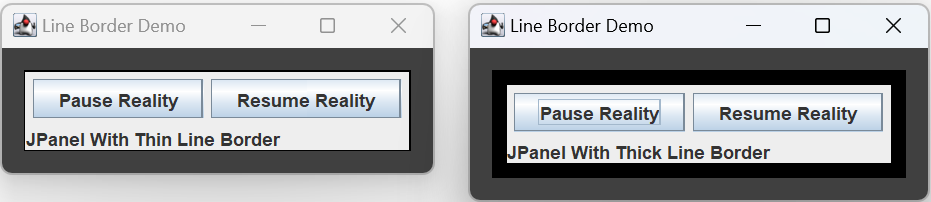
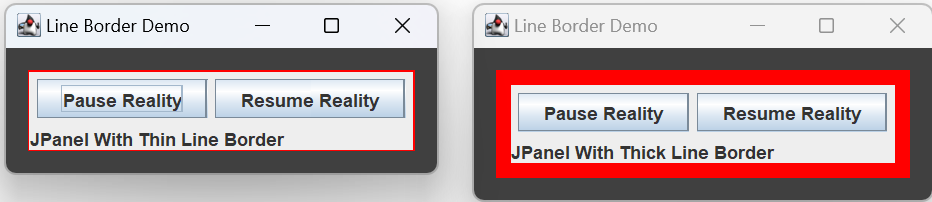
Work on Cartesian Plane part 15

diff --git a/Cartesian Plane Part 15/src/main/java/com/acmemail/judah/cartesian_plane/sandbox/BorderDemo1.java b/Cartesian Plane Part 15/src/main/java/com/acmemail/judah/cartesian_plane/sandbox/BorderDemo1.java
@@ -12,8 +12,10 @@ import javax.swing.JFrame;
 import javax.swing.JLabel;
 import javax.swing.JPanel;
 import javax.swing.SwingUtilities;
+import javax.swing.border.BevelBorder;
 import javax.swing.border.Border;
 import javax.swing.border.EtchedBorder;
+import javax.swing.border.TitledBorder;
 
 public class BorderDemo1
 {
@@ -21,11 +23,15 @@ public class BorderDemo1
     private static final int    locY    = 300;
     
     private List<JFrame>    allFrames   = new ArrayList<>();
+    private JPanel          demoPanel;
     
     public static void main(String[] args)
     {
         SwingUtilities.invokeLater( () -> new BorderDemo1().makeGUI() );
-
+        BorderFactory.createBevelBorder( BevelBorder.RAISED );
+        BorderFactory.createRaisedBevelBorder();
+        BorderFactory.createBevelBorder( BevelBorder.LOWERED );
+        BorderFactory.createLoweredBevelBorder();
     }
     
     private void makeGUI()
@@ -33,91 +39,52 @@ public class BorderDemo1
         JFrame  frame       = new JFrame( "Border Demo" );
         frame.setDefaultCloseOperation( JFrame.EXIT_ON_CLOSE );
         JPanel  contentPane = new JPanel( new BorderLayout() );
-        JPanel  centerPanel = new JPanel( new GridLayout( 2, 3, 5, 5) );
+        demoPanel   = new JPanel( new GridLayout( 3, 3, 5, 5 ) );
         
-        JButton empty       = new JButton( "Show Empty Border" );
-        empty.addActionListener( e -> {
-            closeAll();
-            emptyBorderDemo();
-        });
-        centerPanel.add( empty );
+        getDemoButton( "Show Empty Border", () -> emptyBorderDemo() );
+        getDemoButton( "Show Bevel Border (1)", () -> bevelBorderDemo1() );
+        getDemoButton( "Show Bevel Border (2)", () -> bevelBorderDemo2() );
+        getDemoButton( "Show Etched Border", () -> etchedBorderDemo() );
+        getDemoButton( "Show Titled Border (1)", () -> titledBorderDemo1() );
+        getDemoButton( "Show Titled Border (2)", () -> titledBorderDemo2() );
+        getDemoButton( "Show Line Border", () -> lineBorderDemo() );
+        getDemoButton( "Show Compound Border", () -> compoundBorderDemo() );
         
-        JButton bevel       = new JButton( "Show Bevel Border" );
-        centerPanel.add( bevel );
-        bevel.addActionListener( e -> {
-            closeAll();
-            bevelBorderDemo();
-        });
+        JButton reserved2   = new JButton();
+        reserved2.setEnabled( false );
+        demoPanel.add( reserved2 );
         
-        JButton etched      = new JButton( "Show Etched Border" );
-        centerPanel.add( etched );
-        etched.addActionListener( e -> {
-            closeAll();
-            etchedBorderDemo();
-        });
-        
-        JButton line        = new JButton( "Show Line Border" );
-        centerPanel.add( line );
-        line.addActionListener( e -> {
-            closeAll();
-            lineBorderDemo();
-        });
-        
-        JButton titled      = new JButton( "Show Titled Border" );
-        titled.addActionListener( e -> {
-            closeAll();
-            titledBorderDemo();
-        });
-        centerPanel.add( titled );
-        
-        JButton compound    = new JButton( "Show Compound Border" );
-        centerPanel.add( compound );
-        compound.addActionListener( e -> {
-            closeAll();
-            compoundBorderDemo();
-        });
-        centerPanel.add( compound );
-        
-        contentPane.add( centerPanel, BorderLayout.CENTER );
-        JButton exit    = new JButton( "Exit" );
-        exit.addActionListener( e -> System.exit( 0 ) );
+        contentPane.add( demoPanel, BorderLayout.CENTER );
         contentPane.add( getButtonPanel(), BorderLayout.SOUTH );
         frame.setContentPane( contentPane );
         frame.pack();
         frame.setLocation( locX - 150, locY - 150 );
         frame.setVisible( true );
     }
+    
+    private void 
+    getDemoButton( String text, Runnable callBack )
+    {
+        JButton button  = new JButton( text );
+        button.addActionListener( e -> {
+            closeAll();
+            callBack.run();
+        });
+        demoPanel.add( button );
+    }
 
     private void emptyBorderDemo()
     {
-        JFrame  frame1  = new JFrame( "Empty Border Demo" );
-        JFrame  frame2  = new JFrame( "Empty Border Demo" );
-        allFrames.add( frame1 );
-        allFrames.add( frame2 );
         JPanel  panel1  = getMainPanel( "JPanel Without Border" );
         JPanel  panel2  = getMainPanel( "JPanel With Empty Border" );
         Border  border  =
             BorderFactory.createEmptyBorder( 20, 20, 20, 20 );
         panel2.setBorder( border );
-        
-        frame1.setContentPane( getContentPane( panel1 ) );
-        frame2.setContentPane( getContentPane( panel2 ) );
-        frame1.pack();
-        frame2.pack();
-        frame1.setLocation( locX, locY );
-        int locX2   = locX + frame1.getWidth() + 10;
-        frame2.setLocation( locX2, locY );
-        
-        frame1.setVisible( true );
-        frame2.setVisible( true );
+        finishAndShow( "Empty Border Demo", panel1, panel2 );
     }
 
-    private void bevelBorderDemo()
+    private void bevelBorderDemo1()
     {
-        JFrame  frame1  = new JFrame( "Bevel Border Demo" );
-        JFrame  frame2  = new JFrame( "Bevel Border Demo" );
-        allFrames.add( frame1 );
-        allFrames.add( frame2 );
         JPanel  panel1  = getMainPanel( "JPanel With Raised Bevel Border" );
         JPanel  panel2  = getMainPanel( "JPanel With Lowered Bevel Border" );
         Border  border1 =
@@ -126,25 +93,32 @@ public class BorderDemo1
             BorderFactory.createLoweredBevelBorder();
         panel1.setBorder( border1 );
         panel2.setBorder( border2 );
-        
-        frame1.setContentPane( getContentPane( panel1 ) );
-        frame2.setContentPane( getContentPane( panel2 ) );
-        frame1.pack();
-        frame2.pack();
-        frame1.setLocation( locX, locY );
-        int locX2   = locX + frame1.getWidth() + 10;
-        frame2.setLocation( locX2, locY );
-        
-        frame1.setVisible( true );
-        frame2.setVisible( true );
+        finishAndShow( "Bevel Border Demo (1)", panel1, panel2 );
+    }
+
+    private void bevelBorderDemo2()
+    {
+        JPanel  panel1  = getMainPanel( "JPanel With Raised Bevel Border" );
+        JPanel  panel2  = getMainPanel( "JPanel With Lowered Bevel Border" );
+        Border  border1 =
+            BorderFactory.createBevelBorder(
+                BevelBorder.RAISED,
+                Color.RED,
+                Color.GREEN
+        );
+        Border  border2 =
+            BorderFactory.createBevelBorder(
+                BevelBorder.RAISED,
+                Color.RED,
+                Color.GREEN
+        );
+        panel1.setBorder( border1 );
+        panel2.setBorder( border2 );
+        finishAndShow( "Bevel Border Demo (2)", panel1, panel2 );
     }
 
     private void etchedBorderDemo()
     {
-        JFrame  frame1  = new JFrame( "Etched Border Demo" );
-        JFrame  frame2  = new JFrame( "Etched Border Demo" );
-        allFrames.add( frame1 );
-        allFrames.add( frame2 );
         JPanel  panel1  = getMainPanel( "JPanel With Raised Etched Border" );
         JPanel  panel2  = getMainPanel( "JPanel With Lowered Etched Border" );
         Border  border1 =
@@ -153,52 +127,24 @@ public class BorderDemo1
             BorderFactory.createEtchedBorder( EtchedBorder.LOWERED );
         panel1.setBorder( border1 );
         panel2.setBorder( border2 );
-        
-        frame1.setContentPane( getContentPane( panel1 ) );
-        frame2.setContentPane( getContentPane( panel2 ) );
-        frame1.pack();
-        frame2.pack();
-        frame1.setLocation( locX, locY );
-        int locX2   = locX + frame1.getWidth() + 10;
-        frame2.setLocation( locX2, locY );
-        
-        frame1.setVisible( true );
-        frame2.setVisible( true );
+        finishAndShow( "Etched Border Demo", panel1, panel2 );
     }
 
     private void lineBorderDemo()
     {
-        JFrame  frame1  = new JFrame( "Line Border Demo" );
-        JFrame  frame2  = new JFrame( "Line Border Demo" );
-        allFrames.add( frame1 );
-        allFrames.add( frame2 );
         JPanel  panel1  = getMainPanel( "JPanel With Thin Line Border" );
         JPanel  panel2  = getMainPanel( "JPanel With Thick Line Border" );
         Border  border1 =
-            BorderFactory.createLineBorder( Color.BLACK );
+            BorderFactory.createLineBorder( Color.RED );
         Border  border2 =
-            BorderFactory.createLineBorder( Color.BLACK, 10 );
+            BorderFactory.createLineBorder( Color.RED, 10 );
         panel1.setBorder( border1 );
         panel2.setBorder( border2 );
-        
-        frame1.setContentPane( getContentPane( panel1 ) );
-        frame2.setContentPane( getContentPane( panel2 ) );
-        frame1.pack();
-        frame2.pack();
-        frame1.setLocation( locX, locY );
-        int locX2   = locX + frame1.getWidth() + 10;
-        frame2.setLocation( locX2, locY );
-        
-        frame1.setVisible( true );
-        frame2.setVisible( true );
+        finishAndShow( "Line Border Demo", panel1, panel2 );
     }
 
-    private void titledBorderDemo()
+    private void titledBorderDemo1()
     {
-        JFrame  frame1  = new JFrame( "Titled Border Demo" );
-        JFrame  frame2  = new JFrame( "Titled Border Demo" );
-        allFrames.add( frame1 );
-        allFrames.add( frame2 );
         JPanel  panel1  = getMainPanel( "JPanel With Titled Border" );
         JPanel  panel2  = getMainPanel( "JPanel With Line/Titled Border" );
         Border  border1 =
@@ -208,36 +154,37 @@ public class BorderDemo1
             BorderFactory.createTitledBorder( line, "Your Title Goes Here" );
         panel1.setBorder( border1 );
         panel2.setBorder( border2 );
-        
-        // The main panel goes inside another JPanel with an empty
-        // border; this makes the border around the main panel clearer.
-        Border  empty           = BorderFactory.createEmptyBorder( 10, 10, 10, 10 );
-        JPanel  contentPane1    = new JPanel();
-        contentPane1.setBorder( empty );
-        contentPane1.add( panel1 );
-        
-        JPanel  contentPane2    = new JPanel();
-        contentPane2.setBorder( empty );
-        contentPane2.add( panel2 );
-        
-        frame1.setContentPane( getContentPane( panel1 ) );
-        frame2.setContentPane( getContentPane( panel2 ) );
-        frame1.pack();
-        frame2.pack();
-        frame1.setLocation( locX, locY );
-        int locX2   = locX + frame1.getWidth() + 10;
-        frame2.setLocation( locX2, locY );
-        
-        frame1.setVisible( true );
-        frame2.setVisible( true );
+        finishAndShow( "Titled Border Demo (1)", panel1, panel2 );
+    }
+
+    private void titledBorderDemo2()
+    {
+        JPanel  panel1  = getMainPanel( "JPanel With Bevel/Titled Border" );
+        JPanel  panel2  = getMainPanel( "JPanel With Etched/Titled Border" );
+        Border  bevel   = BorderFactory.createRaisedBevelBorder();
+        Border  border1 =
+            BorderFactory.createTitledBorder( 
+                bevel,
+                "Your Title Goes Here",
+                TitledBorder.DEFAULT_JUSTIFICATION,
+                TitledBorder.ABOVE_BOTTOM
+            );
+        Border  etched  =
+            BorderFactory.createEtchedBorder( EtchedBorder.RAISED );
+        Border  border2 =
+            BorderFactory.createTitledBorder( 
+                etched, 
+                "Your Title Goes Here",
+                TitledBorder.DEFAULT_JUSTIFICATION,
+                TitledBorder.BOTTOM
+            );
+        panel1.setBorder( border1 );
+        panel2.setBorder( border2 );
+        finishAndShow( "Titled Border Demo (2)", panel1, panel2 );
     }
 
     private void compoundBorderDemo()
     {
-        JFrame  frame1  = new JFrame( "Compound Border Demo" );
-        JFrame  frame2  = new JFrame( "Compound Border Demo" );
-        allFrames.add( frame1 );
-        allFrames.add( frame2 );
         JPanel  panel1  = 
             getMainPanel( "JPanel With Titled Border Inside Etched" );
         JPanel  panel2  = 
@@ -250,29 +197,8 @@ public class BorderDemo1
         Border  border2 =
             BorderFactory.createCompoundBorder( titled, etched );
         panel1.setBorder( border1 );
-        panel2.setBorder( border2 );
-        
-        // The main panel goes inside another JPanel with an empty
-        // border; this makes the border around the main panel clearer.
-        Border  empty           = BorderFactory.createEmptyBorder( 10, 10, 10, 10 );
-        JPanel  contentPane1    = new JPanel();
-        contentPane1.setBorder( empty );
-        contentPane1.add( panel1 );
-        
-        JPanel  contentPane2    = new JPanel();
-        contentPane2.setBorder( empty );
-        contentPane2.add( panel2 );
-        
-        frame1.setContentPane( getContentPane( panel1 ) );
-        frame2.setContentPane( getContentPane( panel2 ) );
-        frame1.pack();
-        frame2.pack();
-        frame1.setLocation( locX, locY );
-        int locX2   = locX + frame1.getWidth() + 10;
-        frame2.setLocation( locX2, locY );
-        
-        frame1.setVisible( true );
-        frame2.setVisible( true );
+        panel2.setBorder( border2 );        
+        finishAndShow( "Compound Border Demo", panel1, panel2 );
     }
     
     private JPanel getMainPanel( String caption )
@@ -305,16 +231,28 @@ public class BorderDemo1
         return panel;
     }
     
-    private JPanel getContentPane( JPanel mainPanel )
+    private void finishAndShow( String title, JPanel... panels )
     {
-        // The main panel goes inside another JPanel with an empty
-        // border; this makes the border around the main panel clearer.
-        Border  empty           = BorderFactory.createEmptyBorder( 10, 10, 10, 10 );
-        JPanel  contentPane     = new JPanel();
-        contentPane.setBackground( Color.DARK_GRAY );
-        contentPane.setBorder( empty );
-        contentPane.add( mainPanel );
-        return contentPane;
+        int nextX   = locX;
+        for ( int inx = 0 ; inx < panels.length ; ++inx )
+        {
+            // The main panel goes inside another JPanel with an empty
+            // border; this makes the border around the main panel clearer.
+            Border  empty           = BorderFactory.createEmptyBorder( 10, 10, 10, 10 );
+            JPanel  contentPane     = new JPanel();
+            contentPane.setBackground( Color.DARK_GRAY );
+            contentPane.setBorder( empty );
+            contentPane.add( panels[inx] );
+            
+            JFrame  frame   = new JFrame( title );
+            allFrames.add( frame );
+            frame.setContentPane( contentPane );
+            frame.pack();
+            frame.setLocation( nextX, locY );
+            frame.setVisible( true );
+            
+            nextX += frame.getWidth() + 10;
+        }
     }
     
     private void closeAll()
